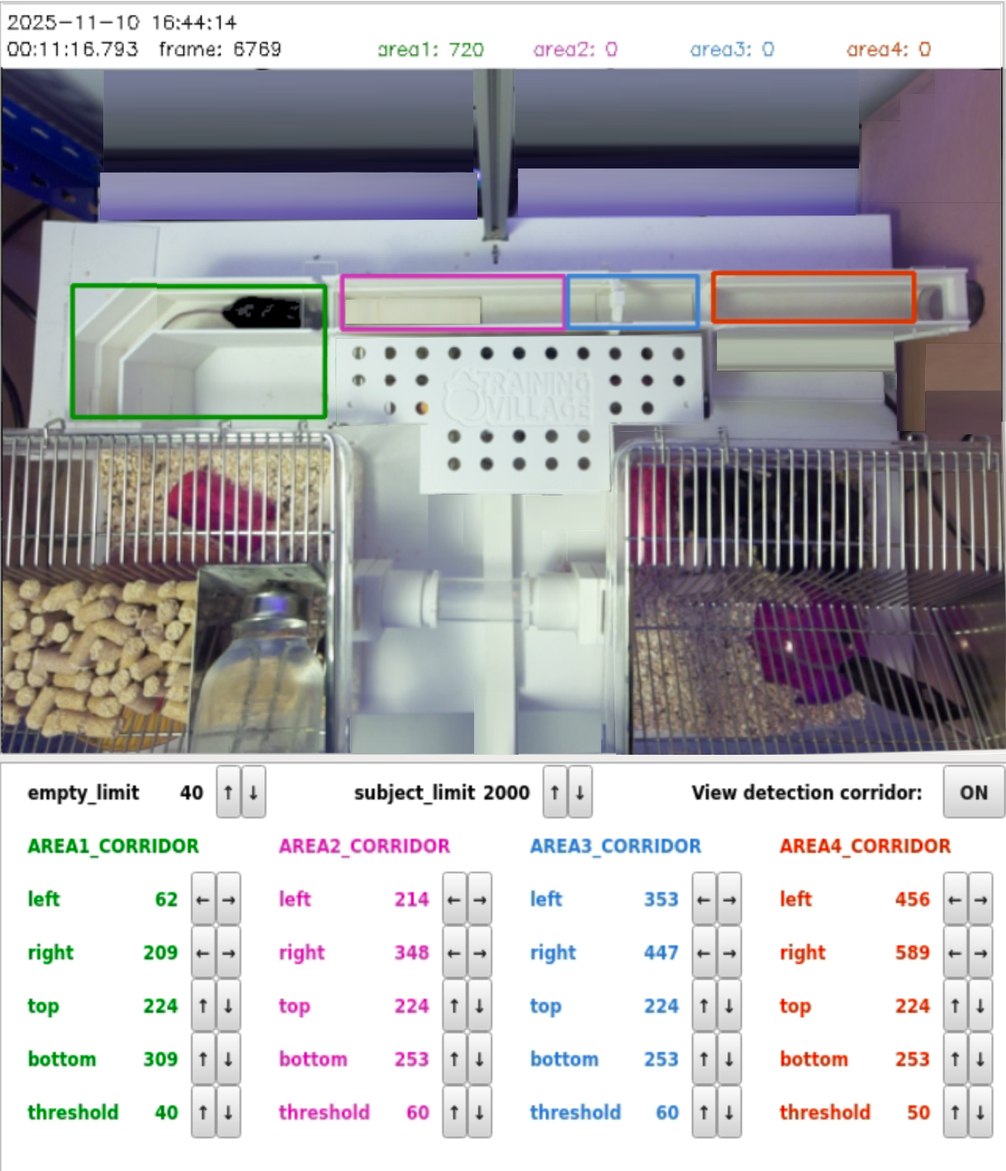
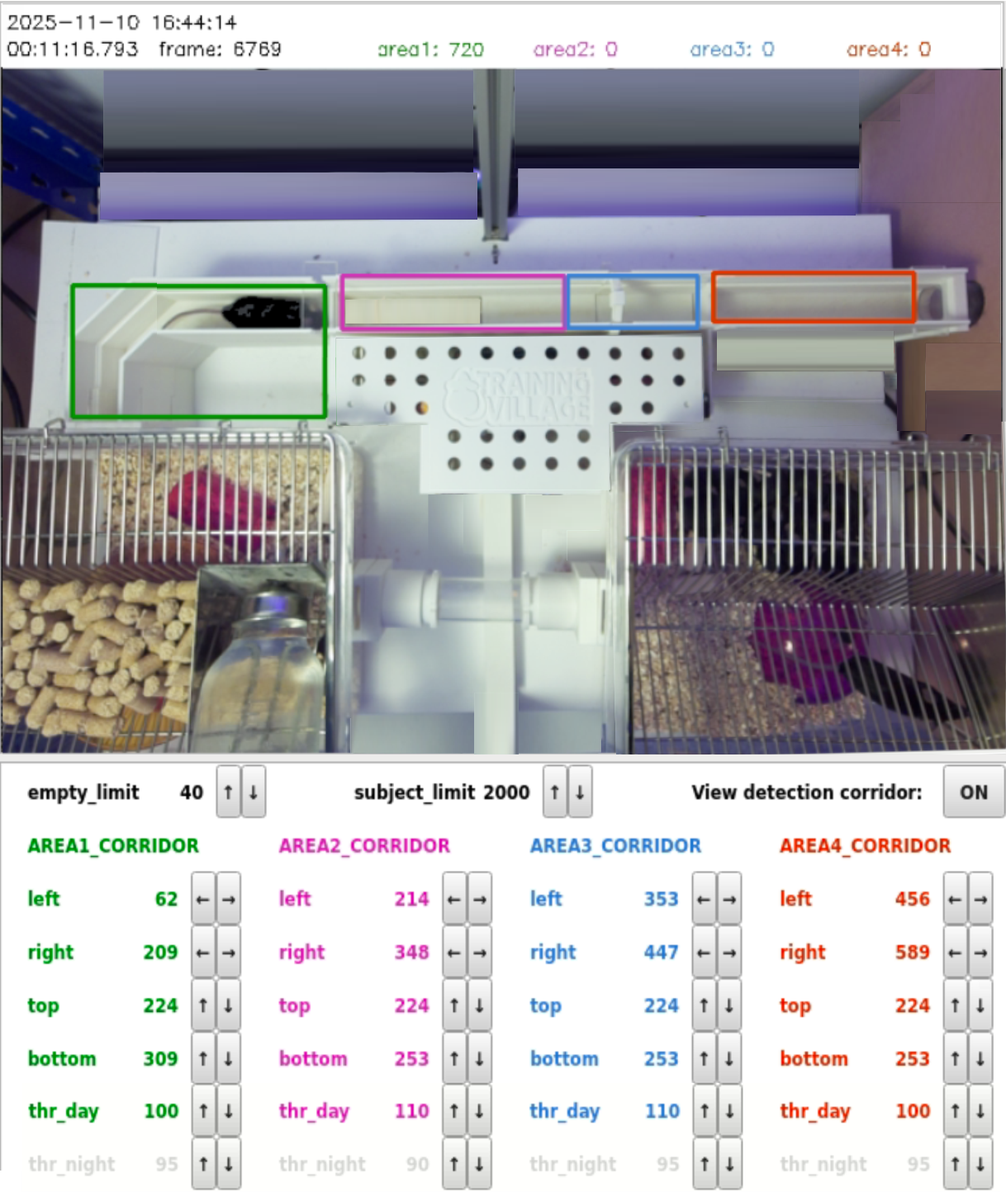
docs 25-ago

diff --git a/village/gui/layout.py b/village/gui/layout.py
@@ -415,10 +415,6 @@ class Layout(QGridLayout):
             "lightgray",
         )
 
-        if not manager.use_of_corridor:
-            self.mice_button.hide()
-            self.alarm_button.hide()
-
         self.stop_button = self.create_and_add_button(
             "",
             0,
@@ -472,27 +468,35 @@ class Layout(QGridLayout):
         ):
             sub_label.setText(part)
 
-        alarms = len(log.telegram_bot.pending)
-        button_text = "ALARMS (" + str(alarms) + ")" if alarms else "NO ALARMS"
-        self.alarm_button.setText(button_text)
-        self.alarm_button.setEnabled(alarms > 0)
-        c = "orange" if alarms else "lightgray"
-        sty = f"QPushButton {{background-color: {c}; font-weight: bold}}{_tt}"
-        self.alarm_button.setStyleSheet(sty)
-
-        checked = manager.mice_check_done()
-        self.mice_button.setText("MICE OK" if checked else "CHECK MICE")
-        self.mice_button.setEnabled(not checked)
-        if checked:
-            at = time_utils.date_from_string(settings.get("MICE_CHECKED_AT"))
-            tooltip = "Mice checked by " + str(settings.get("MICE_CHECKED_BY"))
-            tooltip += " at " + at.strftime("%H:%M")
+        if not manager.use_of_corridor:
+            self.alarm_button.setText("NO ALARMS")
+            self.alarm_button.setEnabled(False)
+            self.alarm_button.setStyleSheet(_off)
+            self.mice_button.setText("MICE OK")
+            self.mice_button.setEnabled(False)
+            self.mice_button.setStyleSheet(_off)
         else:
-            tooltip = "Confirm that the mice have been checked today"
-        self.mice_button.setToolTip(tooltip)
-        c = "lightgray" if checked else "orange"
-        sty = f"QPushButton {{background-color: {c}; font-weight: bold}}{_tt}"
-        self.mice_button.setStyleSheet(sty)
+            alarms = len(log.telegram_bot.pending)
+            button_text = "ALARMS (" + str(alarms) + ")" if alarms else "NO ALARMS"
+            self.alarm_button.setText(button_text)
+            self.alarm_button.setEnabled(alarms > 0)
+            c = "orange" if alarms else "lightgray"
+            sty = f"QPushButton {{background-color: {c}; font-weight: bold}}{_tt}"
+            self.alarm_button.setStyleSheet(sty)
+
+            checked = manager.mice_check_done()
+            self.mice_button.setText("MICE OK" if checked else "CHECK MICE")
+            self.mice_button.setEnabled(not checked)
+            if checked:
+                at = time_utils.date_from_string(settings.get("MICE_CHECKED_AT"))
+                tooltip = "Mice checked by " + str(settings.get("MICE_CHECKED_BY"))
+                tooltip += " at " + at.strftime("%H:%M")
+            else:
+                tooltip = "Confirm that the mice have been checked today"
+            self.mice_button.setToolTip(tooltip)
+            c = "lightgray" if checked else "orange"
+            sty = f"QPushButton {{background-color: {c}; font-weight: bold}}{_tt}"
+            self.mice_button.setStyleSheet(sty)
 
         state = manager.state
         if state == State.RUN_MANUAL or state.task_is_running():

diff --git a/docs/source/system_operation/GUI.md b/docs/source/system_operation/GUI.md
@@ -28,18 +28,18 @@ The `MONITOR` screen is used to track the system’s status, displaying real-tim
 #### Primary Control Tabs
 Depending on your active configuration, several control tabs are available at the center of the screen:
 
-*   **`CORRIDOR`:** Provides manual and automated overrides for the RFID reader, lighting modules, doors, weighing scale, and temperature sensor. When the RFID system is toggled **OFF**,
+*   **`CORRIDOR`:** Provides manual and automated overrides for the RFID reader, doors, weighing scale, and temperature sensor. When the RFID system is toggled **OFF**,
     animal identification is disabled, and no subjects will be permitted to enter the operant box.
 
-    *The `VISIBLE LIGHT` and `IR LIGHT` modes can be set to `ON`, `OFF`, or `AUTO`. In `AUTO` mode, visible light turns on during daytime hours and off at night, while the infrared (IR) light operates inversely. The specific daytime and nighttime schedules can be customized under `SETTINGS` -> `CORRIDOR_SETTINGS`.*
+    *Lighting and camera exposure/thresholds are driven together by the `Corridor Cycle` control, which can be set to `DAY`, `NIGHT`, or `AUTO`. `DAY` turns the visible light **ON** and the IR light **OFF**, and applies the daytime camera exposure/threshold settings. `NIGHT` does the opposite: visible light **OFF**, IR light **ON**, and the nighttime camera exposure/threshold settings. `AUTO` switches automatically between `DAY` and `NIGHT` according to the actual time of day; the daytime/nighttime schedule can be customized under `SETTINGS` -> `CORRIDOR SETTINGS`.*
 
-*   **`BOX`:** Provides dedicated controls for the lighting and motor modules inside the operant box. If a Bpod is connected as the primary behavioral controller, this tab will also display dedicated
+*   **`BOX`:** Provides dedicated controls for the lighting, scale and motor modules inside the operant box. If a Bpod is connected as the primary behavioral controller, this tab will also display dedicated
     buttons to manually trigger the port LEDs or deliver water rewards (1-second duration) directly to the behavior ports.
 
-    *The `VISIBLE LIGHT` and `IR LIGHT` modes can be set to `ON`, `OFF`, or `AUTO`. In `AUTO` mode, both visible and IR lights (if installed) are dynamically triggered: they switch ON automatically as soon as an animal enters the operant box and switch OFF once the subject leaves.*
+    *The `Visible Light` and `IR Light` modes can be set to `ON`, `OFF`, or `AUTO`. In `AUTO` mode, both visible and IR lights (if installed) are dynamically triggered: they switch ON automatically as soon as an animal enters the operant box and switch OFF once the subject leaves.*
 
 *   **`FUNCTIONS`:** Allows you to execute custom, user-defined Python functions in real time (e.g., displaying specific visual stimuli, playing auditory cues, etc.). Step-by-step instructions
-    for writing and deploying these scripts can be found in the [Create a New Training Protocol][NEW] section.
+    for writing and deploying these scripts can be found in the [Protocol Creation][CREATE] section.
 
 *   **`VIRTUAL MOUSE`:** Enables real-time simulation of animal behavior through software triggers—an invaluable tool for debugging task logic and testing system responsiveness.
     *   **Bpod Integration:** Simulate a nose-poke in any behavior port with a single click.
@@ -71,13 +71,12 @@ From this screen, tasks can be launched manually at any time.
 
 The active training protocol is displayed on the left side, along with a list of all available tasks. Clicking on the training protocol allows you to test its functionality (check the [Manual Task Execution][MANUAL] section to know how). When you click on a task, task information is displayed, along with an options menu that includes the following settings:
 
-- `Subject`: Clicking here opens a list of all available subjects, as well as the option “None.” Selecting “None” runs the task without saving any data.
 - `maximum_number_of_trials`: The task will automatically end once this number of trials is completed.
 - `maximum_duration`: The task will automatically end when this timer is reached.
 
 In addition to these settings, a list of all variables defined for this specific training protocol will appear. In the [Protocol Creation][CREATE] section, we explain how to create a protocol and define its variables.
 
-The `RUN TASK` button starts the task.
+Next to the `RUN TASK` button, which starts the task, the `Subject` selector opens a list of all available subjects, as well as the option "None." Selecting "None" runs the task without saving any data.
 
 ### DATA
 ![Main Training village screen](/_static/data_screen.png)
@@ -101,6 +100,25 @@ A more detailed description of these tables, including their exact database sche
 
 ---
 
+### CALIBRATION
+![Calibration Training village screen](/_static/calibration_screen.png)
+
+This screen provides a dedicated panel for each calibration tool available on the system. A left-side menu lists every calibration relevant to your current hardware configuration; selecting an entry opens its panel on the right.
+
+Besides the calibration tools installed by default, you can create your own and have them appear here alongside the built-in ones — see the [Custom Calibrations][CALIBRATIONS] section for details.
+
+*   **`BPOD_WATER_CALIBRATION`:** Calibrates the relationship between valve opening time and the volume of water actually delivered, per behavior port, and lets you test a calibration by requesting a target volume. Only available when the Bpod is the configured behavior controller.
+
+*   **`SOUND_CALIBRATION`:** Calibrates speaker output so a requested sound level corresponds to an actual, measured volume. Only available when `USE_SOUNDCARD` is **ON**.
+
+*   **`CAMERA_CALIBRATION`:** Generates a printable symmetric circle grid used to calibrate lens distortion for the system cameras. Always available.
+
+*   **`CORRIDOR_THRESHOLD_CALIBRATION`:** Lets you position the four corridor detection areas and tune their day/night pixel-detection thresholds while previewing the result on the live corridor image. Only available when `USE_CORRIDOR` is **ON**.
+
+*   **`OPTOGRID_CALIBRATION`:** Provides a visual map of the optogenetic stimulation grid for selecting and testing individual LEDs. Always available.
+
+---
+
 ### SETTINGS
 ![Main Training village screen](/_static/settings_screen.png)
 
@@ -117,3 +135,4 @@ The most critical parameters from this list will be discussed and modified step-
 [MANUAL]: /system_operation/manual.md
 [CREATE]: /protocols/creating.md
 [DATA]: /system_operation/data.md
+[CALIBRATIONS]: /protocols/calibrations.md

diff --git a/docs/source/system_operation/settings.md b/docs/source/system_operation/settings.md
@@ -4,13 +4,19 @@ Some initial settings must be configured before the system can be used.  Navigat
 
 *   **`MAIN SETTINGS`:**
     *   **`SYSTEM_NAME`:** Define a unique identifier for your setup. This name will be appended to all saved datasets, which is essential for distinguishing data source origins if your facility operates multiple Training Villages.
-    *   **`USE_CORRIDOR`:** Must be toggled **ON** for standard automated operations.
-    *   **`USE_BOX_BOARD`:** Set to **ON** or **OFF** depending on whether your configuration utilizes auxiliary servo motors or dedicated illumination modules inside the operant chamber.
+    *   **`FAVOURITE_TASK`:** A task preselected when opening the `TASKS` tab, so you can start a session immediately. Set to `None` to disable preselection.
     *   **`Project Selection`:** This section allows you to select an active experimental project or initialize a new one. For now, keep the default project: **demo-village-project**.
 
-*   **`CORRIDOR SETTINGS`:** Define the DAYTIME and NIGHTTIME parameters to set the specific hours you want the lights to turn on and off, the automated visible and IR lighting modules will cycle accordingly. Additionally, adjust the `DETECTION COLOR` parameter if you are tracking light-colored animals on a dark corridor background.
+*   **`CORRIDOR SETTINGS`:** These settings only appear once `USE_CORRIDOR` (at the top of this section) is toggled **ON**; turning it off hides the rest of the section and disables the whole Corridor subsystem (RFID, scale, temperature sensor, motors, lighting, and the dedicated corridor camera). Define `DAYTIME` and `NIGHTTIME` to set the hours used by the `Corridor Cycle` control's `AUTO` mode (see the [GUI][GUI] section) to switch lighting and camera exposure/thresholds between day and night values. Adjust `DETECTION_COLOR` if you are tracking light-colored animals on a dark corridor background, and `MIN_WEIGHT_THRESHOLD`/`MAX_WEIGHT_THRESHOLD` to filter out invalid weight readings. `MOTOR3_CORRIDOR` and `MOTOR4_CORRIDOR` let you declare whether those optional motors are physically installed.
 
-*   **`CONTROLLER SETTINGS`:** Select your primary behavioral control hardware architecture. If integrating a Bpod system, specify the target communication ports.
+    ```{admonition} Note
+    :class: tip
+    Turning `USE_CORRIDOR` **OFF** also hides `TELEGRAM SETTINGS`. `USE_CORRIDOR` should only be OFF for setups running tasks manually rather than through the fully automated corridor pipeline, and without the corridor there is nothing for Telegram to monitor or alert on remotely.
+    ```
+
+*   **`BOX SETTINGS`:** Likewise gated by `USE_BOX_BOARD` at the top of the section, which enables the Operant Box PCB. Once ON, declare which box hardware is physically present: `MOTOR1_BOX` through `MOTOR7_BOX`, `VISIBLE_LIGHT_BOX`, `IR_LIGHT_BOX`, `LED_STRIP_BOX`, and `SCALE_BOX`. Only the components you mark **ON** here get initialized and show up as controls on the `MONITOR` screen's `BOX` tab.
+
+*   **`CONTROLLER SETTINGS`:** Select your primary behavioral control hardware architecture (`BPOD`, `ARDUINO`, or `RASPBERRY`). `CONTROLLER_PORT` only appears for `BPOD`/`ARDUINO`, since `RASPBERRY` needs no external controller.
     ```{admonition} Note
     :class: tip
     The system automatically creates a symlink named `/dev/controller` pointing directly to any device connected to the bottom USB port adjacent to the Raspberry Pi's native RJ45 Ethernet jack.
@@ -23,6 +29,8 @@ Some initial settings must be configured before the system can be used.  Navigat
 
 *   **`SCREEN SETTINGS`:** If your behavioral arena features a display module or touchscreen interface for visual stimulus presentation, specify the hardware type in `USE_SCREEN` and calibrate the remaining parameters.
 
+*   **`LED STRIP SETTINGS`:** Electrical configuration for the LED strip enabled via `LED_STRIP_BOX` in `BOX SETTINGS`: the `SPI_DEVICE` path, `NUMBER_OF_LEDS`, `SPI_SPEED_KHZ`, and the pixel color order (`PIXEL_TYPE`).
+
 *   **`SYNC SETTINGS`:** Configure the destination for your external data synchronization. Refer to the [Data Persistence Section][BACKUP].
 
 *   **`TELEGRAM SETTINGS`:** Input your unique authentication keys to link the system with your [Telegram Bot][TELEGRAM] and the external [Remote Heartbeat][REMOTE] monitoring service. You can customize alarm triggers, adjust sensor thresholds, or silence specific diagnostic checks by consulting the [Alarm System Section][ALARM].
@@ -34,10 +42,9 @@ Some initial settings must be configured before the system can be used.  Navigat
 
 *   **`ADVANCED SETTINGS`:** Advanced settings and gui colors.
 
-*   **`DEVICE ADDRESSES`:** Hardware indexing parameters. Use this section to remap camera IDs or servo motors IDs.
-
 
 [BACKUP]: /preparation/backup.md
 [TELEGRAM]: /preparation/telegram.md
 [REMOTE]: /preparation/heartbeat.md
 [ALARM]: /troubleshooting/alarm.md
+[GUI]: /system_operation/GUI.md

diff --git a/docs/source/system_operation/toolbar.md b/docs/source/system_operation/toolbar.md
@@ -1,24 +1,34 @@
 ## Toolbar Controls
 
-The top bar of the GUI contains a set of buttons for performing the following actions. The available actions change dynamically depending on the current system state.
+The top bar of the GUI contains a set of buttons for performing the following actions. Depending on the current system state, you will see different buttons available.
 
-### Sync Buttons
+### `CHANGE STATE`
 
-By default, the system synchronizes data with an external device or server after each session ends. While syncing, animals cannot be detected or enter the operant box. Once synchronization is complete, the system returns to WAIT state and animals can enter again.
+Opens a dialog offering only the actions valid for the current state:
 
-- **`STOP SYNC`**: Stops the current synchronization. Useful during testing to avoid waiting for a sync after each test run — the sync will run automatically at the end of the next session.
-- **`FORCE SYNC`**: Forces an immediate synchronization. Useful if the automatic sync did not run due to a connection failure, a network change, or any other issue.
+- While the system believes a subject is inside the box but it is not (e.g. a door did not close properly and the animal escaped back to the home cage without being detected), it offers **"All subjects are back home, go to WAIT state."**
+- While the system is in the WAIT state, it offers **"Force data sync"** (forces an immediate synchronization, useful if the automatic sync did not run due to a connection failure, a network change, or any other issue) and **"Subject is inside the box"** (use this when the system believes there is no subject in the box but there is one — e.g. two mice entered the operant box simultaneously and the system detected one exiting, switching to WAIT while the other stayed inside).
 
-### Task Running
+### `STOP SYNC`
 
-- **`ONLINE PLOTS`**: Shows live plots while a task is running. The plots displayed are configurable by the user.
-- **`STOP TASK`**: Stops a running task. In automatic mode, pressing this button disconnects the RFID reader to prevent new animals from entering, and the system waits for the current animal to exit the box. If you remove the animal manually, press GO TO WAIT STATE afterwards and re-enable the RFID reader.
+By default, the system synchronizes data with an external device or server after each session ends. While syncing, animals cannot be detected or enter the operant box. `STOP SYNC` stops the current synchronization — useful during testing to avoid waiting for a sync after each test run, since it will run automatically at the end of the next session. Once synchronization is complete (or stopped), the system returns to the WAIT state and animals can enter again.
 
-### Manually Changing States
+### `STOP TASK`
 
-- **`GO TO WAIT STATE`**: Use this when the system believes a subject is inside the box but it is not. This can happen if a door does not close properly and the animal escapes back to the home cage without the system detecting it.
-- **`SUBJECT IN BOX`**: Use this when the system believes there is no subject in the box (WAIT state) but there is one. This can happen if two mice enter the operant box simultaneously and the system detects one exiting, switching to WAIT state while the other is still inside.
+Stops a running task. In automatic mode, pressing this button disconnects the RFID reader to prevent new animals from entering, and the system waits for the current animal to exit the box. If you remove the animal manually, use `CHANGE STATE` → "All subjects are back home, go to WAIT state" afterwards and re-enable the RFID reader.
 
-### Exit
+### `ONLINE PLOTS`
 
-- **`EXIT`**: Shuts down the system.
+Shows live plots while a task is running. The plots displayed are configurable by the user. Only enabled while a task is actually running.
+
+### `CHECK MICE`
+
+Confirms that the mice have been checked today. Turns orange until confirmed, either by clicking it or via the `/mice_checked` Telegram command; once confirmed, it shows `MICE OK` and stays disabled until the next reset, which happens at midnight. If the mice have not been checked by the time set in `SETTINGS` → `TELEGRAM SETTINGS` → `CHECK_MICE_TIME`, an alarm is triggered to remind you via Telegram.
+
+### `ALARMS`
+
+Shows the number of pending alarms and turns orange while any are pending. Clicking it acknowledges every pending alarm and stops their Telegram reminders.
+
+### `EXIT`
+
+Shuts down the system.

diff --git a/docs/source/system_operation/detection.md b/docs/source/system_operation/detection.md
@@ -54,11 +54,11 @@ count condition, described below.
 ```
 
 The system classifies the occupancy of each area based on three key parameters:
-*   **`threshold`:** The numerical value that determines whether a pixel is classified as white or black. This parameter is adjusted independently for each area. It should be tuned so that when the area is completely empty, the detected pixel count is zero, and when an animal is present, it captures the maximum possible number of pixels.
+*   **`threshold` (`thr_day` / `thr_night`):** The numerical value that determines whether a pixel is classified as white or black. This parameter is adjusted independently for each area, and for the corridor, independently for day and night: each corridor area exposes two controls, `thr_day` and `thr_night`, so lighting changes between day and night don't require re-calibrating on the fly. The one that is not currently effective is shown greyed out; which one is effective follows the `Corridor Cycle` control (`SETTINGS` -> `CORRIDOR SETTINGS` -> `DAYTIME`/`NIGHTTIME` for `AUTO` mode — see the [GUI][GUI] section). Operant box areas only have a single `threshold`, since the box has no automated day/night lighting cycle and lighting stays the same throughout the task. Whichever threshold is active, it should be tuned so that when the area is completely empty, the detected pixel count is zero, and when an animal is present, it captures the maximum possible number of pixels.
 *   **`empty_limit`:** The maximum number of detected pixels allowed before an area is flagged as occupied.
 *   **`subject_limit`:** The maximum pixel threshold for a single animal. Exceeding this limit flags the area as potentially containing multiple subjects.
 
-To calibrate the binarization `threshold`, allow an animal into the corridor and enable the `VIEW_DETECTION` overlay. This visual feedback highlights the binarized pixels in real time, letting you tune parameters accurately:
+To calibrate the binarization threshold, allow an animal into the corridor and enable the `VIEW_DETECTION` overlay. This visual feedback highlights the binarized pixels in real time, letting you tune parameters accurately; remember to calibrate `thr_day` under daytime lighting and `thr_night` under nighttime/IR lighting, since they are independent values:
 
 ![Detection](/_static/detection.png)
 
@@ -113,5 +113,22 @@ In the reference image above, the corridor and the touchscreen area are elevated
 Every time the detection algorithm processes a frame and extracts the animal's $(x, y)$ coordinates, it passes them to a customizable tracking function. While this is primarily used to fire actions when entering a designated `TRIGGER` zone, you can also write custom code that depends entirely on the continuous coordinate stream to log trajectories or trigger position-dependent stimuli.
 ```
 
+---
+
+### Camera Adjustments: Lens Position, Sharpness & Exposure
+
+Below the corridor and box detection areas, the `DETECTION SETTINGS` tab also provides a `CORRIDOR ADJUSTMENTS` panel (only shown when `USE_CORRIDOR` is **ON**) and a `BOX ADJUSTMENTS` panel, letting you tune each camera's image quality directly while watching the live preview, without having to go through `SETTINGS`:
+
+```{image} /_static/detection_settings3.png
+:width: 70%
+:align: center
+```
+
+*   **`lens_position`:** The focus position of the camera lens (0-10). Increase or decrease it while watching the preview until the image is sharp.
+*   **`sharpness`:** The in-camera sharpness/edge-enhancement level (0-16). Higher values increase contrast at edges, which can help the detection algorithm distinguish the animal from the background.
+*   **`exposure`:** Exposure mode (0-2). `0` = normal auto-exposure. `1` = long-exposure mode, letting the camera use longer exposure times for a brighter, cleaner image in low light. `2` = long exposure plus extra digital gain, for the brightest (but noisiest) result.
+
+For the corridor camera, `exposure` is split into `exposure_day` and `exposure_night`, following the same `Corridor Cycle` logic as the area thresholds: the value that is not currently effective is shown greyed out, and switching between `DAY`/`NIGHT`/`AUTO` (in `AUTO`, at the `DAYTIME`/`NIGHTTIME` boundaries) applies the corresponding stored value automatically. The box camera, which has no automated day/night cycle, has a single `exposure` control instead.
 
 [TRIGGERS]: /protocols/triggers.md
+[GUI]: /system_operation/GUI.md

diff --git a/docs/source/system_operation/corridor.md b/docs/source/system_operation/corridor.md
@@ -2,23 +2,24 @@
 
 The corridor elements must be calibrated. Navigate to the `MONITOR` Screen:
 
-1. **Set Door Motor Angles**: Select the `CORRIDOR` tab in the center of the screen and use the `CHANGE MOTOR ANGLES` button to correctly set the opening and closing angles for each door. The closing angle should allow the door to gently touch the top without pushing further.
+1. **Set Door Motor Angles**: Select the `CORRIDOR` tab in the center of the screen. Each installed motor has its own `MOTORx VALUES` button (`MOTOR1`/`MOTOR2` are always shown; `MOTOR3`/`MOTOR4` only appear if enabled in `SETTINGS` → `CORRIDOR SETTINGS`). Clicking it opens a dialog with the `Open angle`/`Open time (ms)` and `Close angle`/`Close time (ms)` fields, plus `OPEN`/`CLOSE` buttons to move the motor immediately and test the values before committing. The closing angle should allow the door to gently touch the top without pushing further.
 ```{admonition} Note
 :class: tip
 Due to the symmetrical placement of the servomotors, the opening angle will be greater than the closing angle for one servo, while the opposite will apply to the other. Typically, the angular displacement between the open and closed positions is approximately 25° to 30°. The most straightforward way to calibrate the gates is by following these steps:
 1. Temporarily detach the plastic gate from the servo horn.
-2. Click the **CLOSE** button in the interface, then manually place and secure the plastic gate in its physical "fully closed" position.
-3. Modify the `OPEN` angle parameter by just a few degrees (either above or below the closed angle value). Click **OPEN** to verify that the servo rotates in the expected direction.
-4. Adjust the final `OPEN` angle incrementally until the gate allows the animal to pass through easily when open.
+2. Click **CLOSE** in the dialog, then manually place and secure the plastic gate in its physical "fully closed" position.
+3. Modify the `Open angle` field by just a few degrees (either above or below the closed angle value). Click **OPEN** to verify that the servo rotates in the expected direction.
+4. Adjust the final `Open angle` incrementally until the gate allows the animal to pass through easily when open.
+5. Once you are happy with the angles and times, click **SAVE** to persist them (or **DISCARD** to revert to the values the motor had before opening the dialog).
 ```
-2. **Calibrate the Scale**: Use the `CALIBRATE SCALE` button with a known weight to calibrate the scale, and verify functionality by pressing `GET WEIGHT`.
+2. **Calibrate the Scale**: Use the `CALIBRATE SCALE` button with a known weight to calibrate the scale, `TARE SCALE` to zero it, and verify functionality by pressing `GET WEIGHT`.
 3. **Check Temperature and Humidity**: Use the `GET TEMPERATURE` button to check temperature and humidity readings.
 
 ```{admonition} Note
 :class: tip
-If you are using motors in the operant box, you can calibrate them by navigating to the `BOX` tab and selecting the `CHANGE MOTOR ANGLES` button in that tab.
+If you are using motors in the operant box, calibrate them the same way from the `BOX` tab: each active motor (up to `MOTOR1`-`MOTOR7`, as enabled in `SETTINGS` → `BOX SETTINGS`) has its own `MOTORx VALUES` button opening the same angle/time dialog. If a box scale is enabled (`SCALE_BOX`), the `BOX` tab also has its own `CALIBRATE SCALE`, `TARE SCALE`, and `GET WEIGHT` buttons, calibrated independently from the corridor scale.
 ```
 
 ```{warning}
-If the `CORRIDOR` or `BOX` tabs are not visible, it is because the corresponding options `USE_CORRIDOR` or `USE_BOX_BOARD` are disabled in `SETTINGS` → `MAIN SETTINGS`.
+If the `CORRIDOR` or `BOX` tabs are not visible, it is because the corresponding options `USE_CORRIDOR` or `USE_BOX_BOARD` are disabled in `SETTINGS` → `CORRIDOR SETTINGS` / `BOX SETTINGS`.
 ```

diff --git a/docs/source/system_operation/screen.md b/docs/source/system_operation/screen.md
@@ -45,10 +45,6 @@ With:
 vc4.force_hotplug=3 video=HDMI-A-1:1600x900@60D video=HDMI-A-2:1280x720@60D
 ```
 
-The `vc4.force_hotplug` flag controls which HDMI ports the system treats as connected:
-`1` = HDMI-1 only, `2` = HDMI-2 only, `3` = both. The `video=HDMI-A-*` parameters set
-the resolution for each port independently.
-
 The `vc4.force_hotplug` flag controls which HDMI ports the system treats as
 connected regardless of whether a monitor is physically plugged in:
 `1` = HDMI-1 only, `2` = HDMI-2 only, `3` = both. Setting it to `3` is what
@@ -82,6 +78,8 @@ Measured latencies: **mean = 27.4 ms, SD = 7.5 ms**.
 
 Import the module-level instance, provide a drawing function, and call
 `start_drawing()` / `stop_drawing()` to control when the stimulus appears.
+`load_draw_function()` only sets the function to call each frame — load any
+media separately with `load_image()` / `load_video()`, before or after it.
 
 **Displaying a static image:**
 
@@ -94,7 +92,8 @@ def draw():
         if screen.image:
             painter.drawPixmap(0, 0, screen.image)
 
-screen.load_draw_function(draw, image="stimulus.png")
+screen.load_image("stimulus.png")
+screen.load_draw_function(draw)
 screen.start_drawing()
 
 # ... trial runs ...
@@ -111,7 +110,8 @@ def draw():
         if frame:
             painter.drawImage(0, 0, frame)
 
-screen.load_draw_function(draw, video="movie.mp4")
+screen.load_video("movie.mp4")
+screen.load_draw_function(draw)
 screen.start_drawing()
 ```
 
@@ -145,11 +145,11 @@ Files passed to `image=` and `video=` are looked up inside `MEDIA_DIRECTORY`
 
 | Method | Arguments | Description |
 |--------|-----------|-------------|
-| `load_draw_function(draw_fn, image, video)` | `draw_fn`: callable; `image`, `video`: optional filenames | Sets the drawing function and pre-loads media. |
+| `load_draw_function(draw_fn)` | `draw_fn`: callable | Sets the function called every frame. Does not load any media — call `load_image()`/`load_video()` separately for that. |
 | `start_drawing()` | — | Starts the 60 Hz rendering loop. |
 | `stop_drawing()` | — | Stops rendering and blanks the screen. |
 | `load_image(file)` | `file`: filename | Loads an image from `MEDIA_DIRECTORY` into `screen.image`. |
-| `load_video(file)` | `file`: filename | Prepares a video for playback (started by `start_drawing()`). |
+| `load_video(file, volume_gain=0.1)` | `file`: filename; `volume_gain`: audio volume for the video's soundtrack, `0.0`–`1.0` | Prepares a video (and its audio track) for playback (started by `start_drawing()`). |
 | `get_video_frame()` | — | Returns the current video frame as a `QImage`, or `None`. |
 
 ---

diff --git a/docs/source/system_operation/sound.md b/docs/source/system_operation/sound.md
@@ -20,15 +20,16 @@ ALSA directly, without going through PortAudio.
    the profile to **Off**. The operating system will no longer use the device, leaving it
    free for `pyalsaaudio` to access directly.
 
+5. Launch the Training Village and select your soundcard under
+   `SETTINGS` → `SOUND SETTINGS`.
+
 ```{admonition} Why the DAC must be released from the system before use
 :class: warning
 When the DAC is set as the active audio output in the desktop environment, the operating
 system holds exclusive access to the device, preventing the Training Village from using
 it. Setting the profile to **Off** releases the device and makes it available for the
 Training Village.
-
-5. Launch the Training Village and select your soundcard under
-   `SETTINGS` → `SOUND SETTINGS`.
+```
 
 ```{admonition} Note
 :class: tip
@@ -66,6 +67,8 @@ at its start, at its end, and whenever `stop` cuts playback short. This smooths 
 abrupt amplitude changes that would otherwise cause audible clicks. Setting it to `0`
 disables the ramp entirely.
 ```
+
+#### Examples
 
 ```python
 from village.devices.sound_device import sound_device
